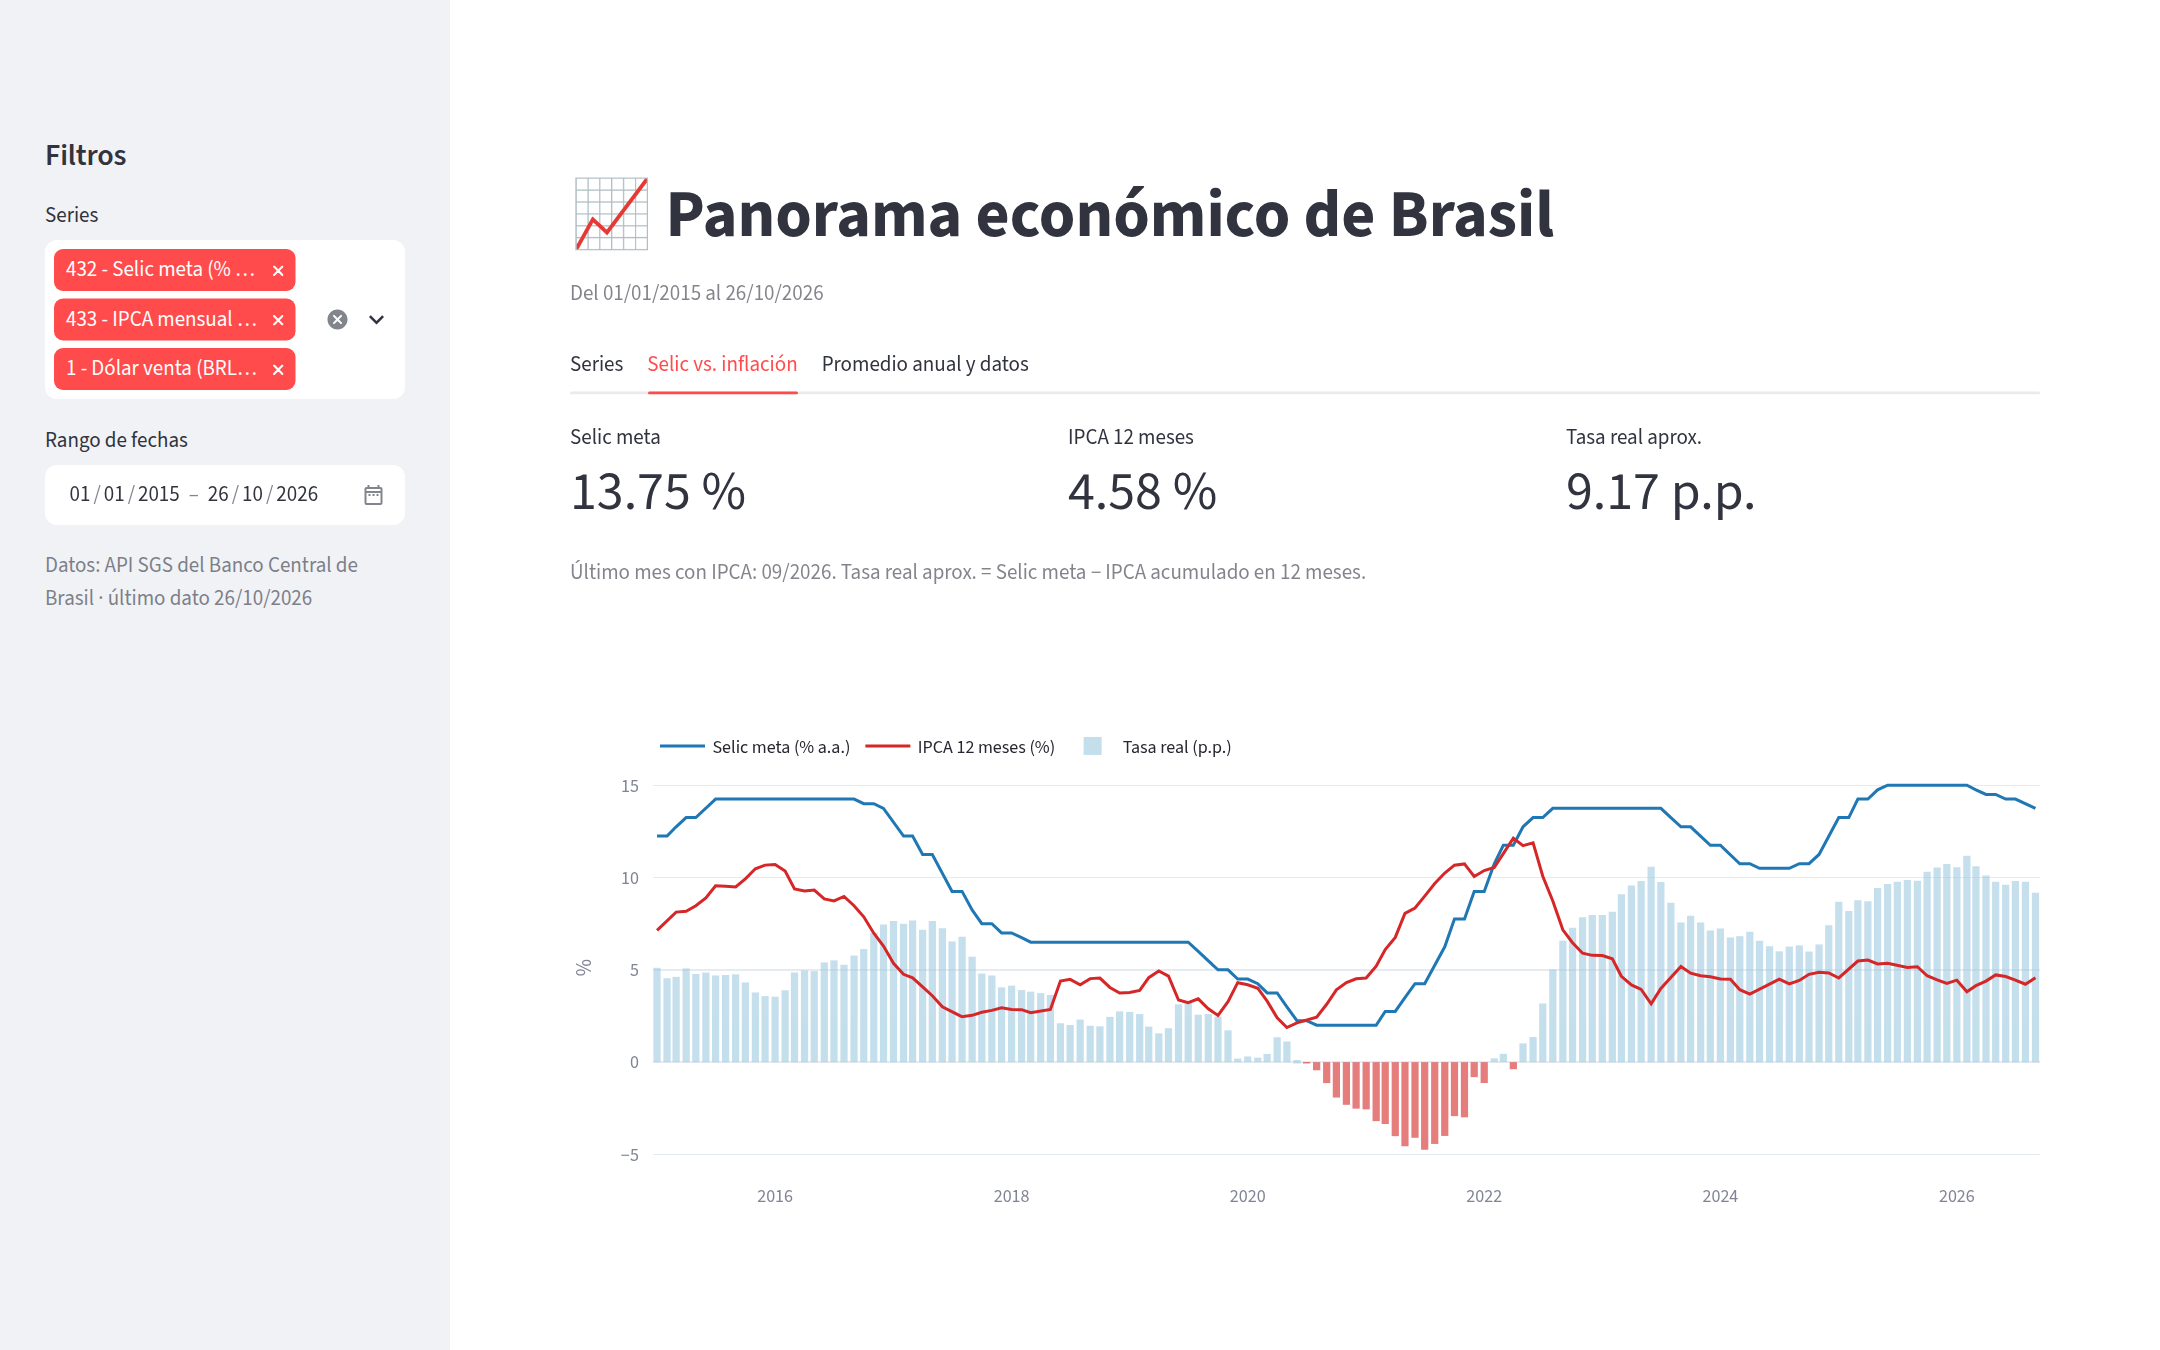
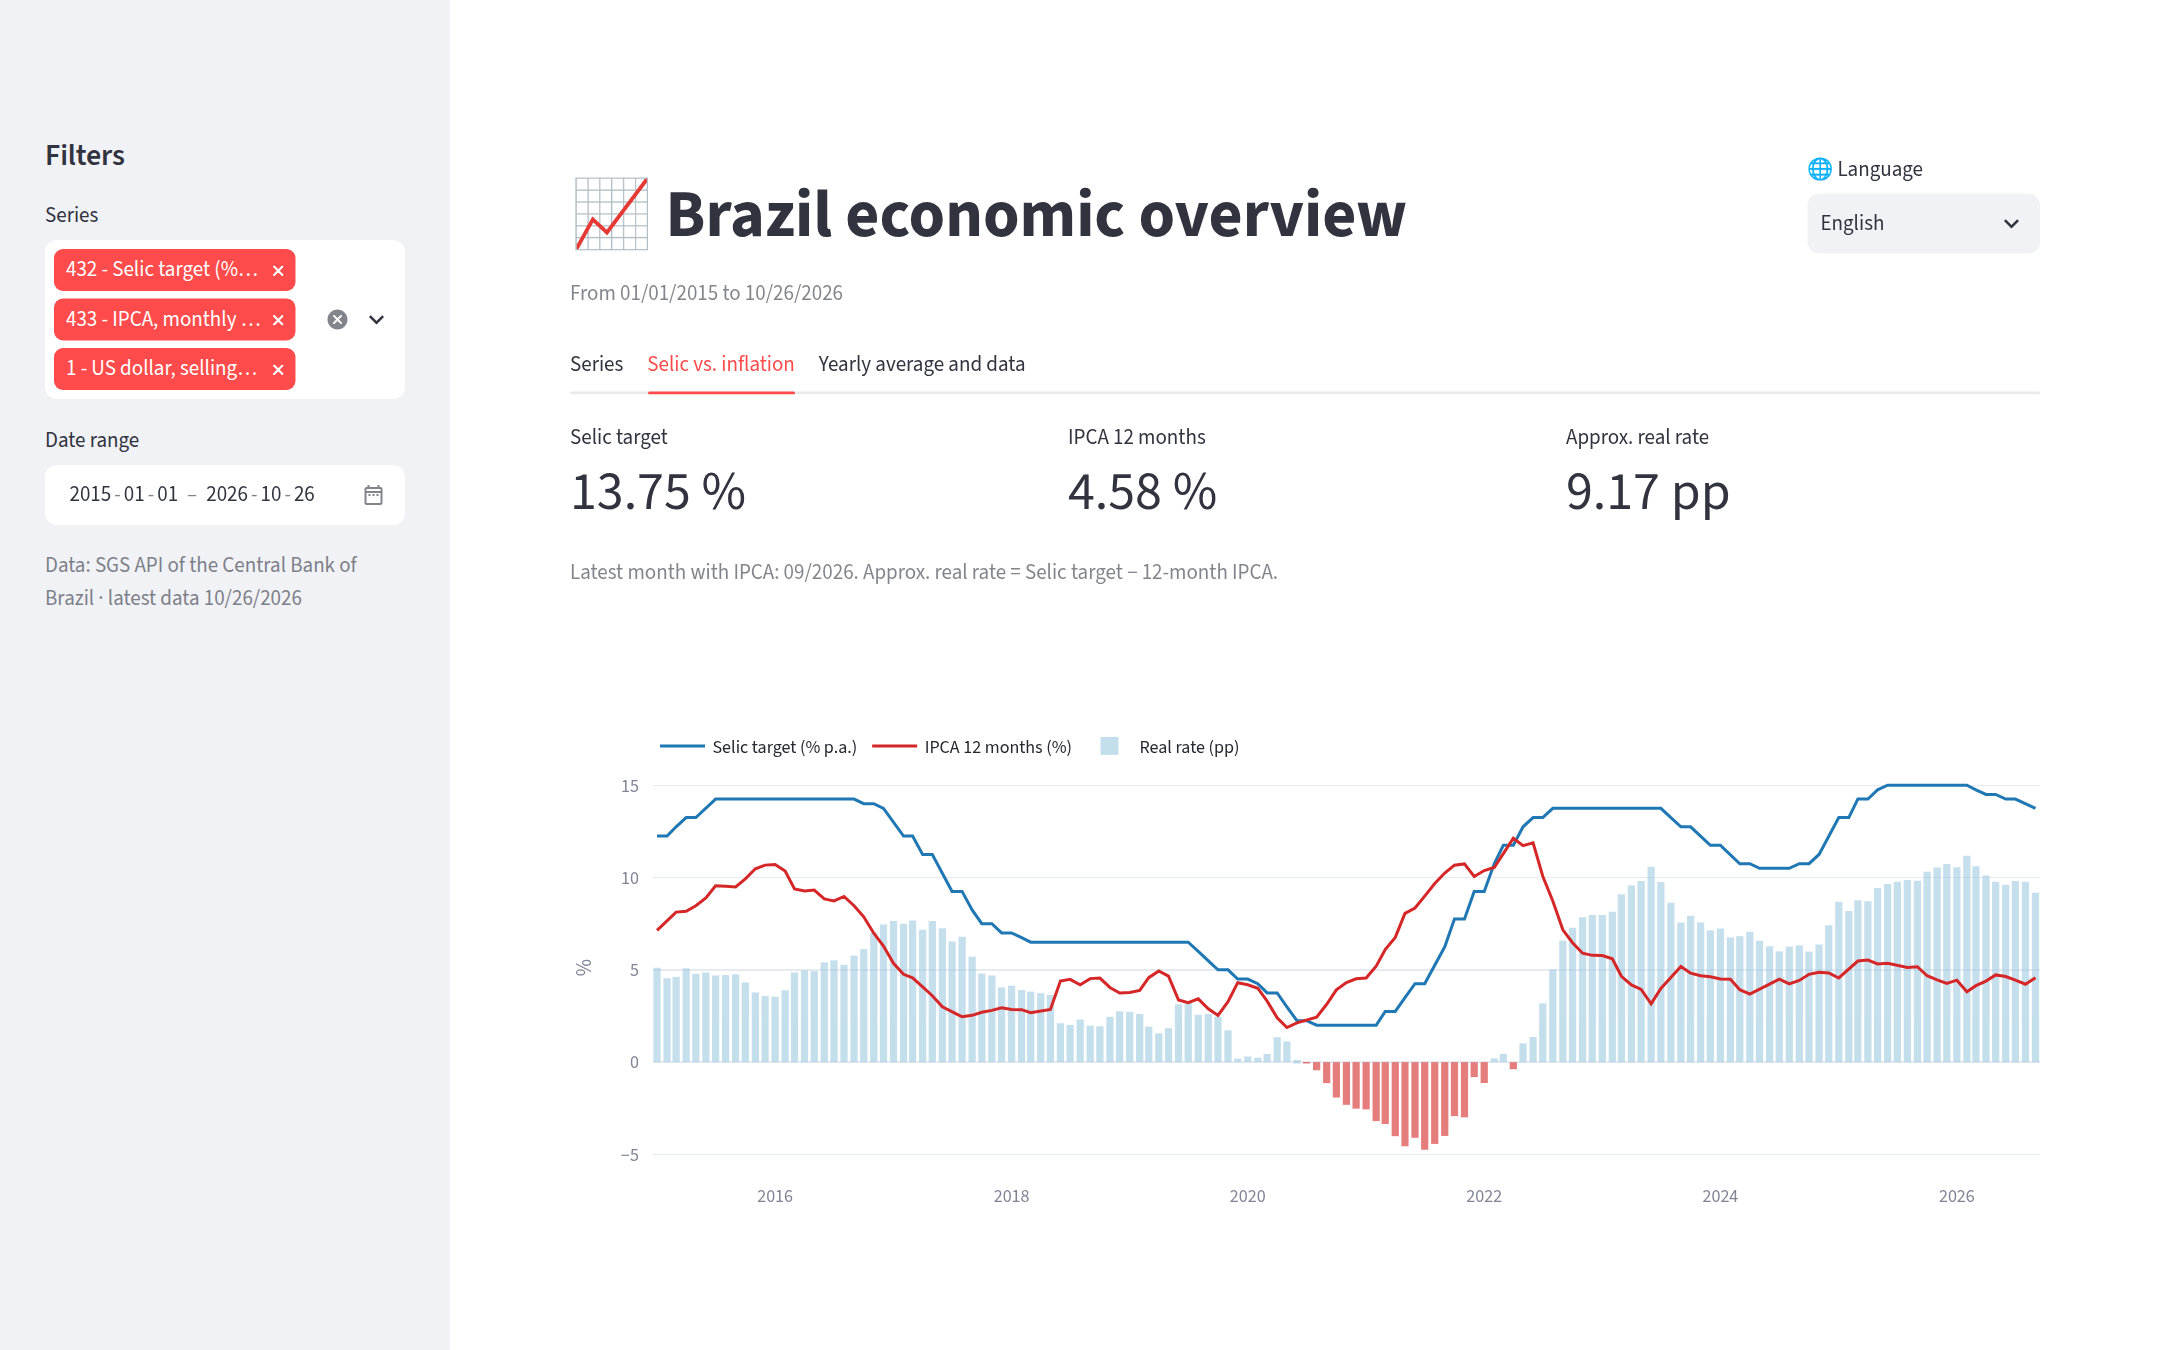
Dashboard: selector de idioma (inglés, portugués y español)
- dashboard/idiomas.py: textos y nombres de series en los tres idiomas
- dashboard/app.py: selector arriba a la derecha, inglés por defecto;
  los filtros elegidos se mantienen al cambiar de idioma
- Capturas del README tomadas de nuevo en inglés

diff --git a/dashboard/app.py b/dashboard/app.py
@@ -16,6 +16,7 @@ import streamlit as st
 RAIZ = Path(__file__).resolve().parents[1]
 sys.path.insert(0, str(RAIZ))
 
+from dashboard.idiomas import FORMATO_FECHA, IDIOMAS, NOMBRES_SERIES, TEXTOS  # noqa: E402
 from src.bcb_client import SERIES  # noqa: E402
 from src.consultas import leer_series, selic_vs_ipca  # noqa: E402
 from src.db import RUTA_DB  # noqa: E402
@@ -35,7 +36,7 @@ def tarjetas(datos: pd.DataFrame, codigo: int) -> None:
     """Muestra último valor, cambio en el período, máximo y mínimo de una serie."""
     serie = datos[datos["codigo"] == codigo].sort_values("fecha")
     if serie.empty:
-        st.info("Sin datos en el rango elegido.")
+        st.info(T["sin_datos"])
         return
     primero, ultimo = serie.iloc[0], serie.iloc[-1]
     maximo = serie.loc[serie["valor"].idxmax()]
@@ -43,73 +44,87 @@ def tarjetas(datos: pd.DataFrame, codigo: int) -> None:
 
     # El dólar se compara en %, las tasas (Selic, IPCA) en puntos porcentuales
     if codigo == 1:
-        cambio = f"{100 * (ultimo['valor'] / primero['valor'] - 1):+.2f} % en el período"
+        cambio = T["cambio_pct"].format(valor=100 * (ultimo["valor"] / primero["valor"] - 1))
     else:
-        cambio = f"{ultimo['valor'] - primero['valor']:+.2f} p.p. en el período"
+        cambio = T["cambio_pp"].format(valor=ultimo["valor"] - primero["valor"])
 
     col1, col2, col3 = st.columns(3)
-    col1.metric(f"Último ({ultimo['fecha']:%d/%m/%Y})", f"{ultimo['valor']:.4g}", cambio)
-    col2.metric(f"Máximo ({maximo['fecha']:%d/%m/%Y})", f"{maximo['valor']:.4g}")
-    col3.metric(f"Mínimo ({minimo['fecha']:%d/%m/%Y})", f"{minimo['valor']:.4g}")
+    col1.metric(T["ultimo"].format(fecha=f"{ultimo['fecha']:{FECHA}}"), f"{ultimo['valor']:.4g}", cambio)
+    col2.metric(T["maximo"].format(fecha=f"{maximo['fecha']:{FECHA}}"), f"{maximo['valor']:.4g}")
+    col3.metric(T["minimo"].format(fecha=f"{minimo['fecha']:{FECHA}}"), f"{minimo['valor']:.4g}")
 
+
+# ---------- Encabezado con selector de idioma ----------
+col_titulo, col_idioma = st.columns([5, 1], vertical_alignment="bottom")
+# Antes de dibujar el selector leemos el idioma guardado para traducir su etiqueta
+idioma_previo = st.session_state.get("idioma", next(iter(IDIOMAS)))
+idioma = col_idioma.selectbox(
+    TEXTOS[idioma_previo]["idioma"],
+    options=list(IDIOMAS),
+    format_func=IDIOMAS.get,
+    key="idioma",
+)
+T = TEXTOS[idioma]
+NOMBRES = NOMBRES_SERIES[idioma]
+FECHA = FORMATO_FECHA[idioma]
+col_titulo.title(T["titulo"])
 
 # ---------- Datos ----------
 if not RUTA_DB.exists():
-    st.error("No se encontró data/panorama.db. Primero carga los datos con: "
-             "`venv/bin/python -m src.db`")
+    st.error(T["sin_db"])
     st.stop()
 
-series = cargar_datos()
+series = cargar_datos().assign(nombre=lambda df: df["codigo"].map(NOMBRES))
 
 # ---------- Filtros (barra lateral) ----------
-st.sidebar.header("Filtros")
+st.sidebar.header(T["filtros"])
+# Una clave por idioma para que el navegador redibuje los nombres traducidos;
+# la selección se guarda aparte para no perderla al cambiar de idioma
 elegidas = st.sidebar.multiselect(
-    "Series",
+    T["series"],
     options=list(SERIES),
-    default=list(SERIES),
-    format_func=lambda codigo: f"{codigo} - {SERIES[codigo]}",
+    default=st.session_state.get("series_elegidas", list(SERIES)),
+    format_func=lambda codigo: f"{codigo} - {NOMBRES[codigo]}",
+    key=f"series_{idioma}",
 )
+st.session_state["series_elegidas"] = elegidas
 fecha_min, fecha_max = series["fecha"].min().date(), series["fecha"].max().date()
 rango = st.sidebar.date_input(
-    "Rango de fechas",
+    T["rango"],
     value=(pd.Timestamp("2015-01-01").date(), fecha_max),
     min_value=fecha_min,
     max_value=fecha_max,
-    format="DD/MM/YYYY",
+    format="YYYY-MM-DD",  # formato fijo: si cambiara con el idioma, se perdería el rango elegido
+    key="rango_fechas",
 )
 # Mientras el usuario elige, date_input puede devolver una sola fecha
 if len(rango) != 2:
-    st.sidebar.warning("Elige fecha inicial y final.")
+    st.sidebar.warning(T["elige_fechas"])
     st.stop()
 desde, hasta = pd.Timestamp(rango[0]), pd.Timestamp(rango[1])
 
-st.sidebar.caption(f"Datos: API SGS del Banco Central de Brasil · "
-                   f"último dato {fecha_max:%d/%m/%Y}")
+st.sidebar.caption(T["fuente"].format(fecha=f"{fecha_max:{FECHA}}"))
 
 filtrado = series[series["codigo"].isin(elegidas) & series["fecha"].between(desde, hasta)]
 
-# ---------- Encabezado ----------
-st.title("📈 Panorama económico de Brasil")
-st.caption(f"Del {desde:%d/%m/%Y} al {hasta:%d/%m/%Y}")
+st.caption(T["periodo"].format(desde=f"{desde:{FECHA}}", hasta=f"{hasta:{FECHA}}"))
 
 if not elegidas:
-    st.warning("Elige al menos una serie en la barra lateral.")
+    st.warning(T["elige_serie"])
     st.stop()
 
-pestaña_series, pestaña_real, pestaña_tabla = st.tabs(
-    ["Series", "Selic vs. inflación", "Promedio anual y datos"]
-)
+pestaña_series, pestaña_real, pestaña_tabla = st.tabs(T["pestañas"])
 
 # ---------- Pestaña 1: cada serie con sus tarjetas y gráfico ----------
 with pestaña_series:
     for codigo in elegidas:
-        st.subheader(SERIES[codigo])
+        st.subheader(NOMBRES[codigo])
         tarjetas(filtrado, codigo)
         datos_serie = filtrado[filtrado["codigo"] == codigo]
         tipo = px.bar if codigo == 433 else px.line  # el IPCA mensual se lee mejor en barras
         fig = tipo(datos_serie, x="fecha", y="valor",
                    color_discrete_sequence=[COLORES[codigo]],
-                   labels={"fecha": "", "valor": SERIES[codigo]})
+                   labels={"fecha": "", "valor": NOMBRES[codigo]})
         fig.update_layout(height=320, margin={"t": 10, "b": 10})
         st.plotly_chart(fig, width="stretch")
 
@@ -118,22 +133,21 @@ with pestaña_real:
     mensual = selic_vs_ipca(series)
     mensual = mensual[(mensual.index >= desde) & (mensual.index <= hasta)]
     if mensual.empty:
-        st.info("Sin datos de Selic e IPCA en el rango elegido.")
+        st.info(T["sin_datos_real"])
     else:
         ultimo = mensual.iloc[-1]
         col1, col2, col3 = st.columns(3)
-        col1.metric("Selic meta", f"{ultimo['selic']:.2f} %")
-        col2.metric("IPCA 12 meses", f"{ultimo['ipca_12m']:.2f} %")
-        col3.metric("Tasa real aprox.", f"{ultimo['tasa_real']:.2f} p.p.")
-        st.caption(f"Último mes con IPCA: {mensual.index[-1]:%m/%Y}. "
-                   "Tasa real aprox. = Selic meta − IPCA acumulado en 12 meses.")
+        col1.metric(T["selic_meta"], f"{ultimo['selic']:.2f} %")
+        col2.metric(T["ipca_12m"], f"{ultimo['ipca_12m']:.2f} %")
+        col3.metric(T["tasa_real"], f"{ultimo['tasa_real']:.2f} {T['unidad_pp']}")
+        st.caption(T["nota_real"].format(mes=f"{mensual.index[-1]:%m/%Y}"))
 
         fig = go.Figure()
-        fig.add_scatter(x=mensual.index, y=mensual["selic"], name="Selic meta (% a.a.)",
+        fig.add_scatter(x=mensual.index, y=mensual["selic"], name=T["linea_selic"],
                         line={"color": COLORES[432]})
-        fig.add_scatter(x=mensual.index, y=mensual["ipca_12m"], name="IPCA 12 meses (%)",
+        fig.add_scatter(x=mensual.index, y=mensual["ipca_12m"], name=T["linea_ipca"],
                         line={"color": COLORES[433]})
-        fig.add_bar(x=mensual.index, y=mensual["tasa_real"], name="Tasa real (p.p.)",
+        fig.add_bar(x=mensual.index, y=mensual["tasa_real"], name=T["barra_real"],
                     marker_color=["#d62728" if v < 0 else "#9ecae1" for v in mensual["tasa_real"]],
                     opacity=0.6)
         fig.update_layout(height=450, hovermode="x unified", yaxis_title="%",
@@ -142,17 +156,20 @@ with pestaña_real:
 
 # ---------- Pestaña 3: promedio anual y descarga ----------
 with pestaña_tabla:
-    st.subheader("Promedio anual")
+    columnas = T["columnas"]
+    st.subheader(T["promedio_anual"])
     anual = (filtrado.assign(año=filtrado["fecha"].dt.year)
              .pivot_table(index="año", columns="nombre", values="valor", aggfunc="mean")
-             .round(2))
+             .round(2)
+             .rename_axis(index=columnas["año"], columns=None))
     st.dataframe(anual, width="stretch")
 
-    st.subheader("Datos filtrados")
-    tabla = filtrado.assign(fecha=filtrado["fecha"].dt.strftime("%Y-%m-%d"))
+    st.subheader(T["datos_filtrados"])
+    tabla = (filtrado.assign(fecha=filtrado["fecha"].dt.strftime("%Y-%m-%d"))
+             .rename(columns=columnas))
     st.dataframe(tabla, width="stretch", hide_index=True, height=300)
     st.download_button(
-        "Descargar CSV",
+        T["descargar"],
         data=tabla.to_csv(index=False).encode("utf-8"),
         file_name="panorama_brasil.csv",
         mime="text/csv",

diff --git a/dashboard/idiomas.py b/dashboard/idiomas.py
@@ -1,0 +1,113 @@
+"""Textos del dashboard en inglés, portugués y español."""
+
+# Código del idioma -> nombre que se muestra en el selector. El primero es el idioma por defecto.
+IDIOMAS = {"en": "English", "pt": "Português", "es": "Español"}
+
+# Nombre de cada serie SGS en cada idioma
+NOMBRES_SERIES = {
+    "en": {432: "Selic target (% p.a.)", 433: "IPCA, monthly (%)", 1: "US dollar, selling (BRL/USD)"},
+    "pt": {432: "Meta Selic (% a.a.)", 433: "IPCA mensal (%)", 1: "Dólar venda (BRL/USD)"},
+    "es": {432: "Selic meta (% a.a.)", 433: "IPCA mensual (%)", 1: "Dólar venta (BRL/USD)"},
+}
+
+# Formato de fecha para mostrar en textos y tarjetas
+FORMATO_FECHA = {"en": "%m/%d/%Y", "pt": "%d/%m/%Y", "es": "%d/%m/%Y"}
+
+TEXTOS = {
+    "en": {
+        "idioma": "🌐 Language",
+        "sin_db": "data/panorama.db not found. Load the data first with: `venv/bin/python -m src.db`",
+        "filtros": "Filters",
+        "series": "Series",
+        "rango": "Date range",
+        "elige_fechas": "Choose a start and end date.",
+        "fuente": "Data: SGS API of the Central Bank of Brazil · latest data {fecha}",
+        "titulo": "📈 Brazil economic overview",
+        "periodo": "From {desde} to {hasta}",
+        "elige_serie": "Choose at least one series in the sidebar.",
+        "pestañas": ["Series", "Selic vs. inflation", "Yearly average and data"],
+        "sin_datos": "No data in the selected range.",
+        "cambio_pct": "{valor:+.2f} % over the period",
+        "cambio_pp": "{valor:+.2f} pp over the period",
+        "ultimo": "Latest ({fecha})",
+        "maximo": "Maximum ({fecha})",
+        "minimo": "Minimum ({fecha})",
+        "selic_meta": "Selic target",
+        "ipca_12m": "IPCA 12 months",
+        "tasa_real": "Approx. real rate",
+        "unidad_pp": "pp",
+        "sin_datos_real": "No Selic and IPCA data in the selected range.",
+        "nota_real": "Latest month with IPCA: {mes}. Approx. real rate = Selic target − 12-month IPCA.",
+        "linea_selic": "Selic target (% p.a.)",
+        "linea_ipca": "IPCA 12 months (%)",
+        "barra_real": "Real rate (pp)",
+        "promedio_anual": "Yearly average",
+        "datos_filtrados": "Filtered data",
+        "descargar": "Download CSV",
+        "columnas": {"año": "year", "codigo": "code", "nombre": "series", "fecha": "date", "valor": "value"},
+    },
+    "pt": {
+        "idioma": "🌐 Idioma",
+        "sin_db": "data/panorama.db não encontrado. Primeiro carregue os dados com: `venv/bin/python -m src.db`",
+        "filtros": "Filtros",
+        "series": "Séries",
+        "rango": "Período",
+        "elige_fechas": "Escolha a data inicial e a final.",
+        "fuente": "Dados: API SGS do Banco Central do Brasil · último dado {fecha}",
+        "titulo": "📈 Panorama econômico do Brasil",
+        "periodo": "De {desde} a {hasta}",
+        "elige_serie": "Escolha pelo menos uma série na barra lateral.",
+        "pestañas": ["Séries", "Selic vs. inflação", "Média anual e dados"],
+        "sin_datos": "Sem dados no período escolhido.",
+        "cambio_pct": "{valor:+.2f} % no período",
+        "cambio_pp": "{valor:+.2f} p.p. no período",
+        "ultimo": "Último ({fecha})",
+        "maximo": "Máximo ({fecha})",
+        "minimo": "Mínimo ({fecha})",
+        "selic_meta": "Meta Selic",
+        "ipca_12m": "IPCA 12 meses",
+        "tasa_real": "Juro real aprox.",
+        "unidad_pp": "p.p.",
+        "sin_datos_real": "Sem dados de Selic e IPCA no período escolhido.",
+        "nota_real": "Último mês com IPCA: {mes}. Juro real aprox. = meta Selic − IPCA acumulado em 12 meses.",
+        "linea_selic": "Meta Selic (% a.a.)",
+        "linea_ipca": "IPCA 12 meses (%)",
+        "barra_real": "Juro real (p.p.)",
+        "promedio_anual": "Média anual",
+        "datos_filtrados": "Dados filtrados",
+        "descargar": "Baixar CSV",
+        "columnas": {"año": "ano", "codigo": "código", "nombre": "série", "fecha": "data", "valor": "valor"},
+    },
+    "es": {
+        "idioma": "🌐 Idioma",
+        "sin_db": "No se encontró data/panorama.db. Primero carga los datos con: `venv/bin/python -m src.db`",
+        "filtros": "Filtros",
+        "series": "Series",
+        "rango": "Rango de fechas",
+        "elige_fechas": "Elige fecha inicial y final.",
+        "fuente": "Datos: API SGS del Banco Central de Brasil · último dato {fecha}",
+        "titulo": "📈 Panorama económico de Brasil",
+        "periodo": "Del {desde} al {hasta}",
+        "elige_serie": "Elige al menos una serie en la barra lateral.",
+        "pestañas": ["Series", "Selic vs. inflación", "Promedio anual y datos"],
+        "sin_datos": "Sin datos en el rango elegido.",
+        "cambio_pct": "{valor:+.2f} % en el período",
+        "cambio_pp": "{valor:+.2f} p.p. en el período",
+        "ultimo": "Último ({fecha})",
+        "maximo": "Máximo ({fecha})",
+        "minimo": "Mínimo ({fecha})",
+        "selic_meta": "Selic meta",
+        "ipca_12m": "IPCA 12 meses",
+        "tasa_real": "Tasa real aprox.",
+        "unidad_pp": "p.p.",
+        "sin_datos_real": "Sin datos de Selic e IPCA en el rango elegido.",
+        "nota_real": "Último mes con IPCA: {mes}. Tasa real aprox. = Selic meta − IPCA acumulado en 12 meses.",
+        "linea_selic": "Selic meta (% a.a.)",
+        "linea_ipca": "IPCA 12 meses (%)",
+        "barra_real": "Tasa real (p.p.)",
+        "promedio_anual": "Promedio anual",
+        "datos_filtrados": "Datos filtrados",
+        "descargar": "Descargar CSV",
+        "columnas": {"año": "año", "codigo": "codigo", "nombre": "nombre", "fecha": "fecha", "valor": "valor"},
+    },
+}

diff --git a/README.md b/README.md
@@ -72,7 +72,7 @@ El dashboard tiene tres pestañas:
 - **Selic vs. inflación:** Selic meta, IPCA acumulado en 12 meses y tasa real aproximada.
 - **Promedio anual y datos:** tabla de promedios por año, datos filtrados y descarga en CSV.
 
-En la barra lateral se eligen las series y el rango de fechas.
+En la barra lateral se eligen las series y el rango de fechas. Arriba a la derecha hay un selector de idioma: inglés (por defecto), portugués o español.
 
 ![Dashboard: pestaña Series](notebooks/figuras/dashboard_series.png)
 
